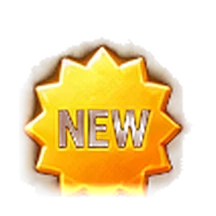
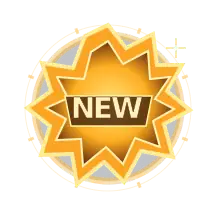
fix(garage): regenerate eight clipped 3x WebP badges and protect gallery geometry

diff --git a/tests/garage-vfx-catalog-browser.spec.js b/tests/garage-vfx-catalog-browser.spec.js
@@ -292,3 +292,54 @@ test('clicking a skin card lights the whole card the same way in every category'
   }
   expect(new Set(looks).size, 'one selected look for every category').toBe(1);
 });
+
+// Original collage cutouts could have internal truncation despite having transparent outer pixels.
+// These eight artworks were re-authored at native 216×216, not enlarged from cutouts.
+for (const viewport of [{ width: 390, height: 844 }, { width: 844, height: 390 }, { width: 1440, height: 900 }]) {
+  test(`all eight regenerated badge/rarity WebPs show complete native 3x silhouettes at ${viewport.width}x${viewport.height}`, async ({ page }) => {
+    await page.setViewportSize(viewport);
+    await page.goto('/');
+    await page.locator('#garage-button').click();
+    const ids = ['badge-locked', 'badge-new', 'badge-trial', 'rarity-common', 'rarity-rare',
+      'rarity-epic', 'rarity-legendary', 'rarity-mythic'];
+    for (const id of ids) {
+      const tile = page.locator(`#garage-vfx-art-badges [data-badge-art="${id}"]`);
+      await tile.scrollIntoViewIfNeeded();
+      await expect(tile).toHaveAttribute('data-artwork-restored', 'true');
+      const image = tile.locator('img');
+      await expect(image).toHaveAttribute('src', new RegExp(`${id}@3x\\.webp$`));
+      const result = await tile.evaluate(async figure => {
+        const img = figure.querySelector('img');
+        await img.decode();
+        const canvas = document.createElement('canvas');
+        canvas.width = img.naturalWidth;
+        canvas.height = img.naturalHeight;
+        const ctx = canvas.getContext('2d');
+        ctx.drawImage(img, 0, 0);
+        const rgba = ctx.getImageData(0, 0, canvas.width, canvas.height).data;
+        const bounds = { minX: canvas.width, minY: canvas.height, maxX: -1, maxY: -1 };
+        for (let y = 0; y < canvas.height; y++) for (let x = 0; x < canvas.width; x++) {
+          if (rgba[(y * canvas.width + x) * 4 + 3] <= 16) continue;
+          bounds.minX = Math.min(bounds.minX, x);
+          bounds.minY = Math.min(bounds.minY, y);
+          bounds.maxX = Math.max(bounds.maxX, x);
+          bounds.maxY = Math.max(bounds.maxY, y);
+        }
+        const frame = figure.querySelector('.garage-badge-art-frame').getBoundingClientRect();
+        const picture = img.getBoundingClientRect();
+        const caption = figure.querySelector('figcaption').getBoundingClientRect();
+        return { natural: [canvas.width, canvas.height], css: [picture.width, picture.height],
+          frame: [frame.width, frame.height],
+          safeMargins: [bounds.minX, bounds.minY, canvas.width - 1 - bounds.maxX, canvas.height - 1 - bounds.maxY],
+          contained: picture.left >= frame.left && picture.top >= frame.top && picture.right <= frame.right && picture.bottom <= frame.bottom,
+          captionClear: caption.top >= frame.bottom + 4 };
+      });
+      expect(result.natural).toEqual([216, 216]);
+      expect(result.css).toEqual([72, 72]);
+      expect(result.frame).toEqual([88, 88]);
+      expect(Math.min(...result.safeMargins), id).toBeGreaterThanOrEqual(12);
+      expect(result.contained).toBe(true);
+      expect(result.captionClear).toBe(true);
+    }
+  });
+}

diff --git a/src/GarageSkinCatalog.vue b/src/GarageSkinCatalog.vue
@@ -36,8 +36,6 @@ const badgeTone: Record<(typeof badgeArt)[number], 'cyan' | 'magenta' | 'gold' |
   'rarity-common': 'slate', 'rarity-rare': 'azure', 'rarity-epic': 'magenta',
   'rarity-legendary': 'gold', 'rarity-mythic': 'red',
 };
-const restoredBadge = (id: string): boolean =>
-  id === 'badge-equipped' || id === 'badge-favorite' || id === 'badge-limited';
 
 const categoryNames: Record<SkinCategory, { en: string; 'zh-TW': string }> = {
   thruster: { en: 'Thruster', 'zh-TW': '推進器' },
@@ -106,7 +104,7 @@ const statusText = (id: SkinId, locale: string) => {
       <div class="garage-art-badges">
         <GarageArtworkTile v-for="id in badgeArt" :key="id" :id="id"
           :label="badgeLabel(id, locale)" :src="badgeSrc(id)"
-          :tone="badgeTone[id]" :restored="restoredBadge(id)" />
+          :tone="badgeTone[id]" :restored="true" />
       </div>
     </section>
     <p class="garage-vfx-message" role="status">{{ locale === 'zh-TW' ? '特效僅改變外觀，不影響速度、獎勵或舊有車漆。' : 'Cosmetics only. Speed, rewards and existing paints are unchanged.' }}</p>

diff --git a/src/GarageArtworkTile.vue b/src/GarageArtworkTile.vue
@@ -47,7 +47,8 @@ const colors = computed(() => ({
   background: radial-gradient(circle, hsl(var(--badge-hue) 70% 49% / .15), transparent 67%);
 }
 .garage-badge-art-frame :deep(.artwork-img) {
-  display: block; width: var(--art-width); height: var(--art-height); object-fit: contain;
+  display: block; width: var(--art-width); height: var(--art-height); max-width: 100%; max-height: 100%;
+  object-fit: contain; object-position: center; image-rendering: auto;
   filter: drop-shadow(0 0 5px hsl(var(--badge-hue) 90% 65% / .28));
 }
 .garage-badge-card figcaption {

diff --git a/TODO.md b/TODO.md
@@ -1,14 +1,41 @@
+## Garage VFX badge clipping / 3× WebP regeneration — 2026-11-02
+
+Branch: `fix/garage-vfx-badge-art-unclipped-3x` (created from `develop` `b3a0c11a`). User reported that all except the first three in `#garage-vfx-art-badges` were cropped near the bottom.
+
+- [x] Identified eight older atlas-derived badge/rarity images; do not confuse transparent padding on a cropped sprite with complete icon content.
+- [x] Recreated Locked/New/Trial and five rarity icons as native 216×216 editable vector originals and transparent `@3x.webp` runtime assets (72×72 CSS), with center alignment and safe alpha margins.
+- [x] Extended Playwright geometry, native-size, alpha-inset and responsive tests for all eight; existing tests keep coverage for the first three.
+- [ ] Run RED/GREEN browser regression on the branch, `make verify`, and full exact-HEAD quality-gate; record observed results.
+- [ ] Review real running-game screenshots and physical touch/browser display at 390×844, 844×390, 1440×900 before claiming visual signoff.
+- [ ] Merge into `develop` **only after explicit approval** and required gates; do not modify `main` or open a PR.
+
+---
+
 ## Button 3x artwork removed — UI/UX follow-ups (2026-11-02)
 
 The 3x HUD artwork belongs to the future `feature/garage-store-readiness`, `feature/garage-rewards-and-missions` and `feature/garage-economy-foundation` work and was merged here by accident. It no longer shows under any button: `#start-button`, `#garage-button`, `#again-button`, `#pause-button`, `#settings-button`, and the touch Left / Right / Brake / NITRO buttons. The semantic SVG icons and labels are untouched.
 
 - [x] Removed every `img.hud-3x-decor` and `img.settings-art-decor` from `src/App.vue` / `src/SettingsPanel.vue`, plus their CSS and the `hudAsset` helper; `tests/hud-3x-artwork-browser.spec.js` asserts none come back.
 - [ ] Image paths kept for later (`public/feature-assets/mobile-controls-hud/raster/`, `@3x.webp`, may be deleted if never used): `button-play`, `button-garage`, `button-retry`, `button-nitro`, `button-back`, `button-coming-soon`, `hud-pause`, `hud-brake`, `ui-arrow-left`, `ui-arrow-right`, `ui-settings`, `ui-close`, `ui-info`, `ui-tooltip`, `hud-combo`, `hud-drift`, `hud-nitro`, `hud-speed`. The Settings source gallery (`#hud-3x-source-gallery`) still lists all 18.
+- [ ] **Restore the button artwork when implementing `feature/garage-store-readiness`, `feature/garage-rewards-and-missions` or `feature/garage-economy-foundation`** (the first branch does not exist yet; the other two do not carry the artwork). After merging `develop` into the branch, run `git show b3a0c11a -- src tests | git apply -R` (re-adds the 9 `img.hud-3x-decor` / `img.settings-art-decor` images, their CSS, `hudAsset`/`settingsArt` and the old browser specs; leaves `TODO.md` alone), then tick this item. Original introduction: `83182a7d` on `feature/3x-hud-materials-integration`. If `App.vue` / `SettingsPanel.vue` changed enough that the patch fails, restore by hand from `83182a7d` instead.
 - [ ] If re-used: swap the button's own background or a real `<svg>` icon instead of an `<img>` layered under the label; keep 44 px touch targets and contrast against the label.
 - [ ] Start / Garage / Race again: one consistent button style across intro, result and pause overlays.
 - [ ] Touch controls: clearer pressed / disabled states for NITRO, Brake and Left / Right.
 - [ ] Settings / Pause icon buttons: larger hit area and visible focus ring on the top bar.
 - [ ] Decide by the Garage economy branches' merge: delete unused `@3x.webp` files and the gallery, or wire them in.
+
+## Ring trains, a few full-width rows, pickup runs (2026-11-02)
+
+**Branch:** `feature/ring-rows` from `develop` `01fd1bea`. **Request:** a few more items and rings on every map and mode: consecutive rings on the road or in the air, a few stretches with a full row of rings so passing always takes one, pickups in runs of 1-4; keep the balance (not too easy or hard, keep the thrill). A first try (6 per car + 5-row streaks of 8 rings every 1.2 km) was rejected as "too many, too bunched".
+
+- [x] RED: `tests/ring-rows.test.js` failed before the shapes existed.
+- [x] GREEN: 4 slots per car unchanged; on plain road a slot becomes a 5-ring train (ground 2.5 m or air 7 m; charge/slipstream/nitro/slipstream/charge; own PERFECT LINE) at 15%, or a 4-lane row at 2.5 m (any car on the road passes one) at 8%, on their own `ring-shapes` stream so singles keep their positions. Risk rings and the first two slots stay single. Pickup slots trail 0-3 cells (`pickup-runs` stream). Endless: a train or (1 in 3) a row per chunk, pickup runs.
+- [x] A row pays once per car (player and rivals, same step); Hard rivals do not swerve for a row.
+- [x] Balance, economy bot, 6 seeds x 10 tracks: NITRO/min 15.3 -> 18.5 (+20%), race 56.4 -> 55.3 s, fuel run-outs 0 -> 0; track range 9.2-19.0 -> 15.0-21.4. AC2 rival NITRO: Hard needed `HARD_RIVAL_TAKES` 4 -> 5 (+3.9 -> +4.2).
+- [x] No `layoutVersion` bump: the 4-per-car versions are unreleased (not on `main`), so no new `firestore.rules` ids. AC3 hashes re-locked.
+- [x] Browser: `tests/ring-rows-browser.spec.js` desktop + phone (rows drawn where they score, one ring per row, train 5/5 + PERFECT LINE); WebGL screenshots checked.
+- [ ] Full `npm run test:browser`, then remote `quality-gate` on the final HEAD.
+- [ ] Real-device feel check of the denser runs.
 
 ## AIRFLOW off hides sprint streamlines (2026-11-02)
 

diff --git a/docs/designs/garage-vfx-skins/CLIPPING-AUDIT.md b/docs/designs/garage-vfx-skins/CLIPPING-AUDIT.md
@@ -11,3 +11,13 @@ Both `feature/garage-rewards-and-missions` and `feature/garage-store-readiness` 
 **Testing:** `tests/garage-vfx-catalog-browser.spec.js` checks the repaired badge alpha extent, native 216×216 size, the 88×88 safe frame around its 72×72 display, caption clearance and theme reuse across 390×844, 844×390 and 1440×900. Rewards, Store and HUD each have corresponding safe-geometry Playwright tests. These tests and the responsive CSS are code-level measures; only a completed **full exact-HEAD CI** and actual screenshots can validate them. Further manual game screenshots, hardware display check and final visual signoff are still open. Do not infer completed sales/awards/entitlements from decorative assets.
 
 **Integration:** `develop` only after approval. No `main` changes, PR, deployment, unlocks or purchases.
+
+## Follow-up: remaining eight badges regenerated (2026-11-02)
+
+Branch: `fix/garage-vfx-badge-art-unclipped-3x` from `develop` `b3a0c11a`.
+
+After the first three retouched badges, users still observed artwork cropped internally near the bottom in the other eight. Existing `object-fit: contain` and 8px frame inset cannot recover pixels lost during sprite-sheet cutout extraction. All remaining eight have therefore been independently redrawn as editable **native-vector SVG masters** at 216×216 viewBox (`generated-source/`) and rendered to **216×216 transparent WebPs** at `public/feature-assets/garage-vfx-skins/raster/`. No enlargement from the former cutouts. The styles preserve the same semantic subjects: lock, NEW burst, hourglass, and Common/Rare/Epic/Legendary/Mythic shields. The first three corrected WebPs are unchanged.
+
+Each regenerated WebP has visible alpha content comfortably inside its canvas (minimum 12 native pixels from every edge, alpha threshold >16); runtime display remains 72×72 CSS px inside an 88×88 frame. Gallery labels, accessibility, localization, release-mode restrictions and CSS gradient cards are unchanged. Playwright regression checks source dimensions, alpha bounds, image/frame/caption geometry and loaded URLs for all eight across 390×844, 844×390 and 1440×900.
+
+Automated checks cannot rule out subjective shape problems; inspect actual game screenshots on mobile and desktop before considering visual acceptance complete. Do not treat the earlier collage as a pixel-exact reference for the new independent vector artwork. No ownership or rarity entitlement changes.
